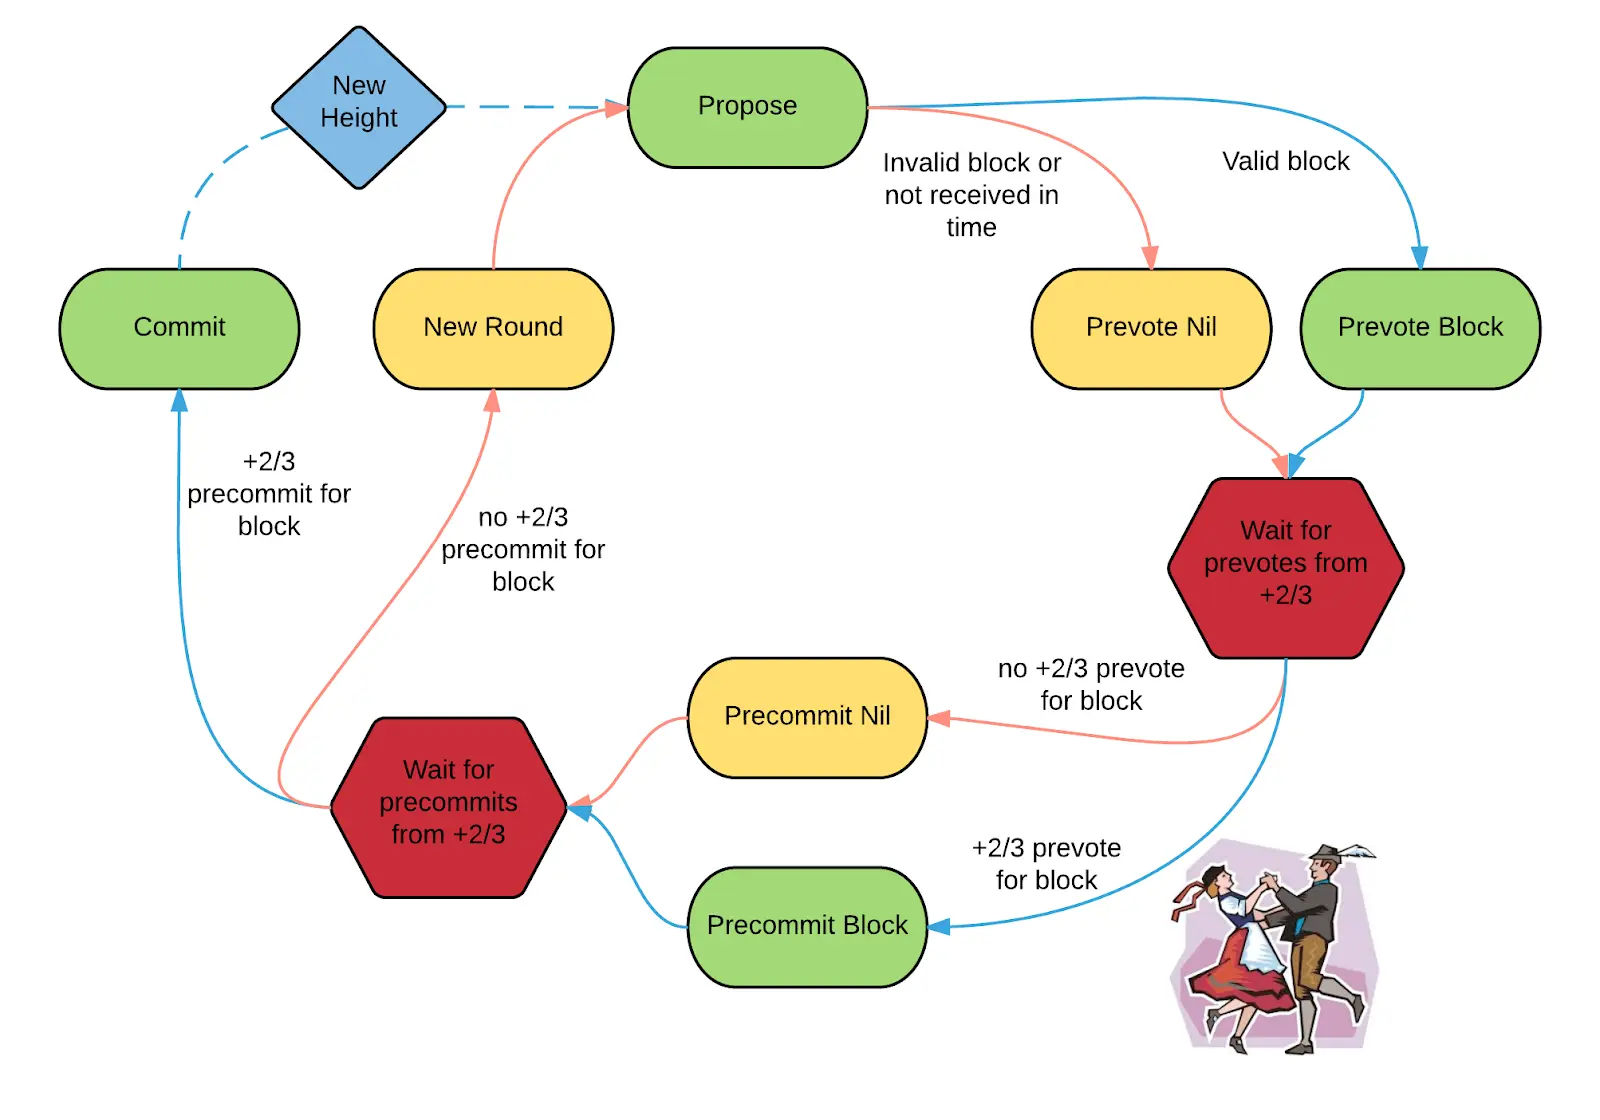
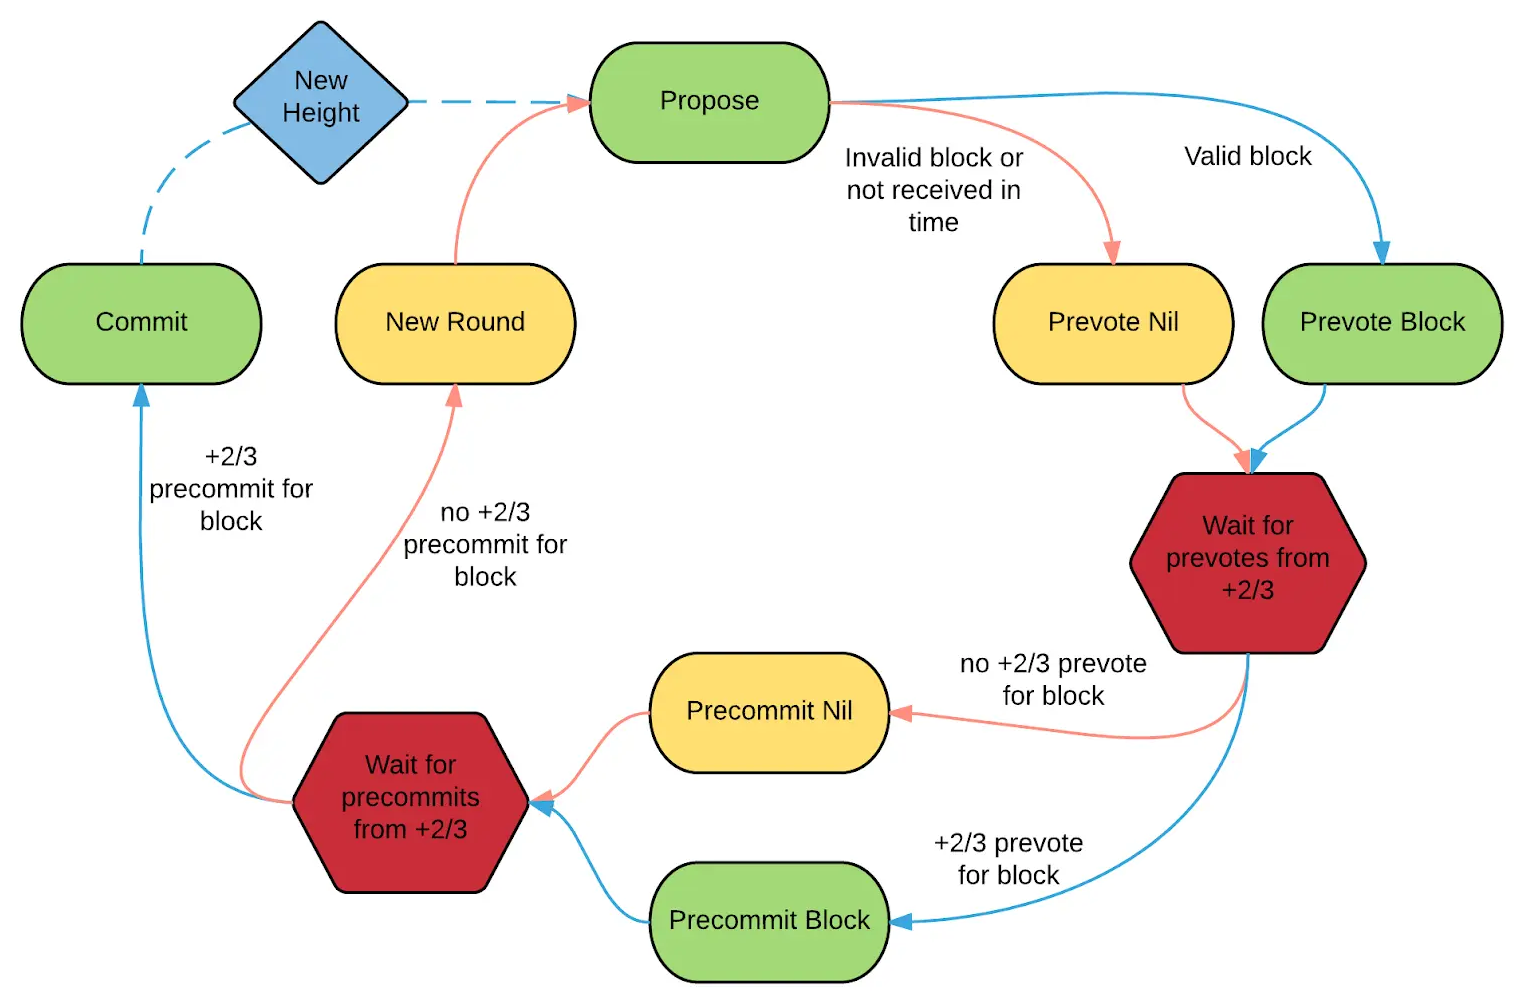
Adjusted image and reworked how it's displayed

diff --git a/xian_tech/pages/consensus.py b/xian_tech/pages/consensus.py
@@ -1,6 +1,6 @@
 import reflex as rx
 
-from ..components.common import page_layout, section
+from ..components.common import page_layout, section, section_panel, subsection
 from ..theme import (
     ACCENT,
     ACCENT_GLOW,
@@ -134,139 +134,158 @@ def consensus_page() -> rx.Component:
             )
         ),
         section(
-            rx.vstack(
-                rx.heading("Why CometBFT?", size="6", color=TEXT_PRIMARY, weight="bold"),
-                rx.grid(
-                    choice_card(
-                        "Security",
-                        "Byzantine fault tolerance keeps the network secure as long as less than one-third of voting power is byzantine.",
-                        "shield",
+            section_panel(
+                rx.flex(
+                    rx.heading("Consensus details", size="6", color=TEXT_PRIMARY, weight="bold"),
+                    rx.hstack(
+                        rx.link(
+                            rx.hstack(
+                                rx.icon(tag="github", size=18),
+                                rx.text("Repo", size="3"),
+                                spacing="2",
+                                align_items="center",
+                            ),
+                            href="https://github.com/cometbft/cometbft",
+                            is_external=True,
+                            color=TEXT_MUTED,
+                            _hover={"color": ACCENT},
+                        ),
+                        rx.link(
+                            rx.hstack(
+                                rx.icon(tag="book_open", size=18),
+                                rx.text("Docs", size="3"),
+                                spacing="2",
+                                align_items="center",
+                            ),
+                            href="https://docs.cometbft.com/v0.38",
+                            is_external=True,
+                            color=TEXT_MUTED,
+                            _hover={"color": ACCENT},
+                        ),
+                        spacing="4",
+                        align_items="center",
                     ),
-                    choice_card(
-                        "Scalability",
-                        "CometBFT is designed for high throughput and is reported to reach thousands of TPS; real results depend on the application and configuration.",
-                        "layers",
-                    ),
-                    choice_card(
-                        "Interoperability",
-                        "ABCI enables application-specific chains, and the Cosmos ecosystem uses CometBFT to connect independent networks.",
-                        "link",
-                    ),
-                    choice_card(
-                        "Fast finality",
-                        "Blocks finalize in seconds once more than two-thirds precommit, delivering deterministic settlement without reorgs.",
-                        "bolt",
-                    ),
-                    choice_card(
-                        "Developer freedom",
-                        "ABCI lets developers write chain logic in their language of choice while CometBFT handles consensus and networking.",
-                        "code",
-                    ),
-                    choice_card(
-                        "Modernized Tendermint",
-                        "CometBFT is the fork and successor to Tendermint Core, continuing the design with efficiency improvements for today’s networks.",
-                        "satellite",
-                    ),
-                    columns={
-                        "base": "repeat(1, minmax(0, 1fr))",
-                        "md": "repeat(2, minmax(0, 1fr))",
-                        "lg": "repeat(3, minmax(0, 1fr))",
-                    },
-                    spacing="4",
-                    width="100%",
-                    align="stretch",
-                ),
-                spacing="4",
-                align_items="start",
-            ),
-            padding_top="0",
-        ),
-        section(
-            rx.vstack(
-                rx.heading("Properties", size="6", color=TEXT_PRIMARY, weight="bold"),
-                rx.text(
-                    "Additionally, the following properties make CometBFT the perfect choice for us. "
-                    "They reinforce reliability, help the network stay consistent under load, and keep the "
-                    "consensus layer predictable so the Python application layer can stay focused on contracts.",
-                    size="3",
-                    color=TEXT_MUTED,
-                    line_height="1.7",
+                    direction={"base": "column", "md": "row"},
+                    align_items={"base": "start", "md": "center"},
+                    justify="between",
+                    gap="0.75rem",
                     width="100%",
                 ),
-                rx.grid(
-                    choice_card(
-                        "BFT replication",
-                        "CometBFT keeps every non-faulty node on the same ordered transaction log and tolerates Byzantine failures below one-third of the validator set.",
-                        "shield",
+                subsection(
+                    "Why CometBFT?",
+                    rx.grid(
+                        choice_card(
+                            "Security",
+                            "Byzantine fault tolerance keeps the network secure as long as less than one-third of voting power is byzantine.",
+                            "shield",
+                        ),
+                        choice_card(
+                            "Scalability",
+                            "CometBFT is designed for high throughput and is reported to reach thousands of TPS; real results depend on the application and configuration.",
+                            "layers",
+                        ),
+                        choice_card(
+                            "Interoperability",
+                            "ABCI enables application-specific chains, and the Cosmos ecosystem uses CometBFT to connect independent networks.",
+                            "link",
+                        ),
+                        choice_card(
+                            "Fast finality",
+                            "Blocks finalize in seconds once more than two-thirds precommit, delivering deterministic settlement without reorgs.",
+                            "bolt",
+                        ),
+                        choice_card(
+                            "Developer freedom",
+                            "ABCI lets developers write chain logic in their language of choice while CometBFT handles consensus and networking.",
+                            "code",
+                        ),
+                        choice_card(
+                            "Modernized Tendermint",
+                            "CometBFT is the fork and successor to Tendermint Core, continuing the design with efficiency improvements for today’s networks.",
+                            "satellite",
+                        ),
+                        columns={
+                            "base": "repeat(1, minmax(0, 1fr))",
+                            "md": "repeat(2, minmax(0, 1fr))",
+                            "lg": "repeat(3, minmax(0, 1fr))",
+                        },
+                        spacing="4",
+                        width="100%",
+                        align="stretch",
                     ),
-                    choice_card(
-                        "Consensus engine + ABCI",
-                        "The consensus engine is decoupled from the application via ABCI, so the state machine can be written in any language.",
-                        "link",
-                    ),
-                    choice_card(
-                        "Mempool validation",
-                        "CheckTx validates incoming transactions and only relays valid ones to peers before they enter consensus.",
-                        "check",
-                    ),
-                    choice_card(
-                        "Multi-connection ABCI",
-                        "CometBFT maintains multiple ABCI connections (mempool, consensus, snapshot, and query) to keep responsibilities separated.",
-                        "layers",
-                    ),
-                    choice_card(
-                        "Instant finality",
-                        "Blocks finalize deterministically—no probabilistic forks or reorgs once a block is committed.",
-                        "bolt",
-                    ),
-                    choice_card(
-                        "Light client protocol",
-                        "CometBFT specifies a light client protocol for securely verifying the latest state without running a full node.",
-                        "satellite",
-                    ),
-                    columns={
-                        "base": "repeat(1, minmax(0, 1fr))",
-                        "md": "repeat(2, minmax(0, 1fr))",
-                        "lg": "repeat(3, minmax(0, 1fr))",
-                    },
-                    spacing="4",
-                    width="100%",
-                    align="stretch",
                 ),
-                spacing="4",
-                align_items="start",
-            ),
-            padding_top="0",
-        ),
-        section(
-            rx.vstack(
-                rx.heading("How it works", size="6", color=TEXT_PRIMARY, weight="bold"),
-                rx.text(
-                    "Validators take turns proposing blocks and voting, weighted by their stake. A block is committed "
-                    "once more than two-thirds of voting power precommits in the same round, which delivers deterministic finality.",
-                    size="3",
-                    color=TEXT_MUTED,
-                    line_height="1.7",
-                    width="100%",
+                subsection(
+                    "Properties",
+                    rx.text(
+                        "Additionally, the following properties make CometBFT the perfect choice for us. "
+                        "They reinforce reliability, help the network stay consistent under load, and keep the "
+                        "consensus layer predictable so the Python application layer can stay focused on contracts.",
+                        size="3",
+                        color=TEXT_MUTED,
+                        line_height="1.7",
+                        width="100%",
+                    ),
+                    rx.grid(
+                        choice_card(
+                            "BFT replication",
+                            "CometBFT keeps every non-faulty node on the same ordered transaction log and tolerates Byzantine failures below one-third of the validator set.",
+                            "shield",
+                        ),
+                        choice_card(
+                            "Consensus engine + ABCI",
+                            "The consensus engine is decoupled from the application via ABCI, so the state machine can be written in any language.",
+                            "link",
+                        ),
+                        choice_card(
+                            "Mempool validation",
+                            "CheckTx validates incoming transactions and only relays valid ones to peers before they enter consensus.",
+                            "check",
+                        ),
+                        choice_card(
+                            "Multi-connection ABCI",
+                            "CometBFT maintains multiple ABCI connections (mempool, consensus, snapshot, and query) to keep responsibilities separated.",
+                            "layers",
+                        ),
+                        choice_card(
+                            "Instant finality",
+                            "Blocks finalize deterministically—no probabilistic forks or reorgs once a block is committed.",
+                            "bolt",
+                        ),
+                        choice_card(
+                            "Light client protocol",
+                            "CometBFT specifies a light client protocol for securely verifying the latest state without running a full node.",
+                            "satellite",
+                        ),
+                        columns={
+                            "base": "repeat(1, minmax(0, 1fr))",
+                            "md": "repeat(2, minmax(0, 1fr))",
+                            "lg": "repeat(3, minmax(0, 1fr))",
+                        },
+                        spacing="4",
+                        width="100%",
+                        align="stretch",
+                    ),
                 ),
-                rx.box(
+                subsection(
+                    "How it works",
+                    rx.text(
+                        "Validators take turns proposing blocks and voting, weighted by their stake. A block is committed "
+                        "once more than two-thirds of voting power precommits in the same round, which delivers deterministic finality.",
+                        size="3",
+                        color=TEXT_MUTED,
+                        line_height="1.7",
+                        width="100%",
+                    ),
                     rx.image(
                         src="/cometbft.png",
                         alt="CometBFT consensus flow diagram",
                         width="100%",
                         max_width="960px",
                         border_radius="12px",
-                        border=f"1px solid {BORDER_COLOR}",
-                        box_shadow=f"0 0 18px {ACCENT_SOFT}",
+                        align_self="center",
                     ),
-                    width="100%",
-                    display="flex",
-                    justify_content="center",
                 ),
-                spacing="4",
-                align_items="start",
-            ),
-            padding_top="0",
+            )
         ),
     )
 
